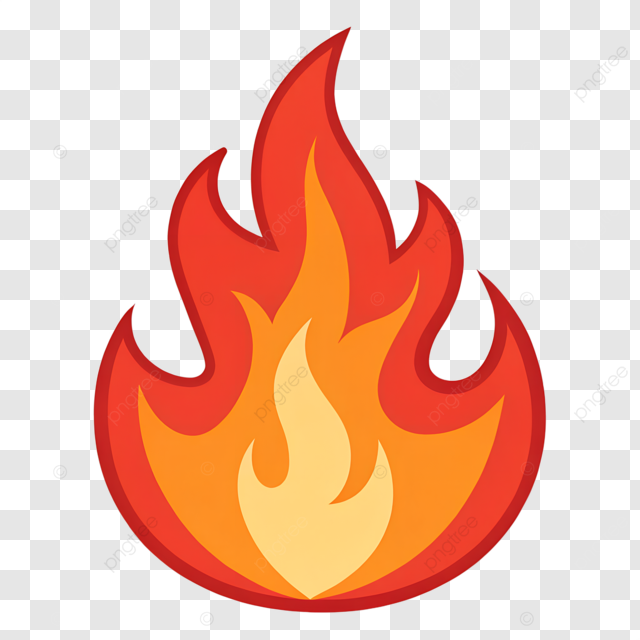
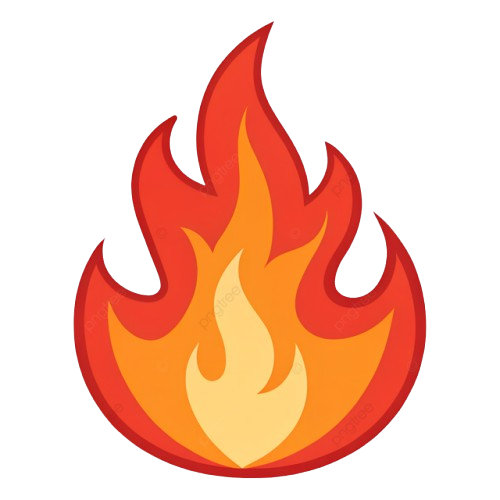
git commit -m

Changed region(s): [[0.0, 0.0, 1.0, 1.0], [0.6, 0.36, 0.63, 0.39]]

diff --git a/src/Game.java b/src/Game.java
@@ -39,14 +39,10 @@ public class Game {
 
         if (currentPath >= paths.size()) {
 
-            JOptionPane.showMessageDialog(null, " You Won!"+ getPlayer().getCurrentBet() * paths.get(paths.size() - 1).getMultiplier());
-<<<<<<< HEAD
-
+JOptionPane.showMessageDialog(null, " You Won!"+ getPlayer().getCurrentBet() * paths.get(paths.size() - 1).getMultiplier());
             startGame();
             chicken.setX(50);
             chicken.setY(395);
-=======
->>>>>>> e5a4b26be630feb12fbc3d102f89b7e3cf5d79d3
             return;
         }
 

diff --git a/src/Chicken.java b/src/Chicken.java
@@ -14,7 +14,7 @@ public class Chicken {
     public void jump() {
         if ( isJumping == true) {
             velocityY = -10; // Set the initial jump velocity
-            isJumping = false; // Reset the jumping state
+            isJumping = true;
             System.out.println("Jumped");
         }
     }
@@ -28,7 +28,7 @@ public class Chicken {
 public void setY(double y) {
     this.y = y;
 }
-    public double getX() {
+    public double getX() { 
         return x;
     }
     public double getY() {